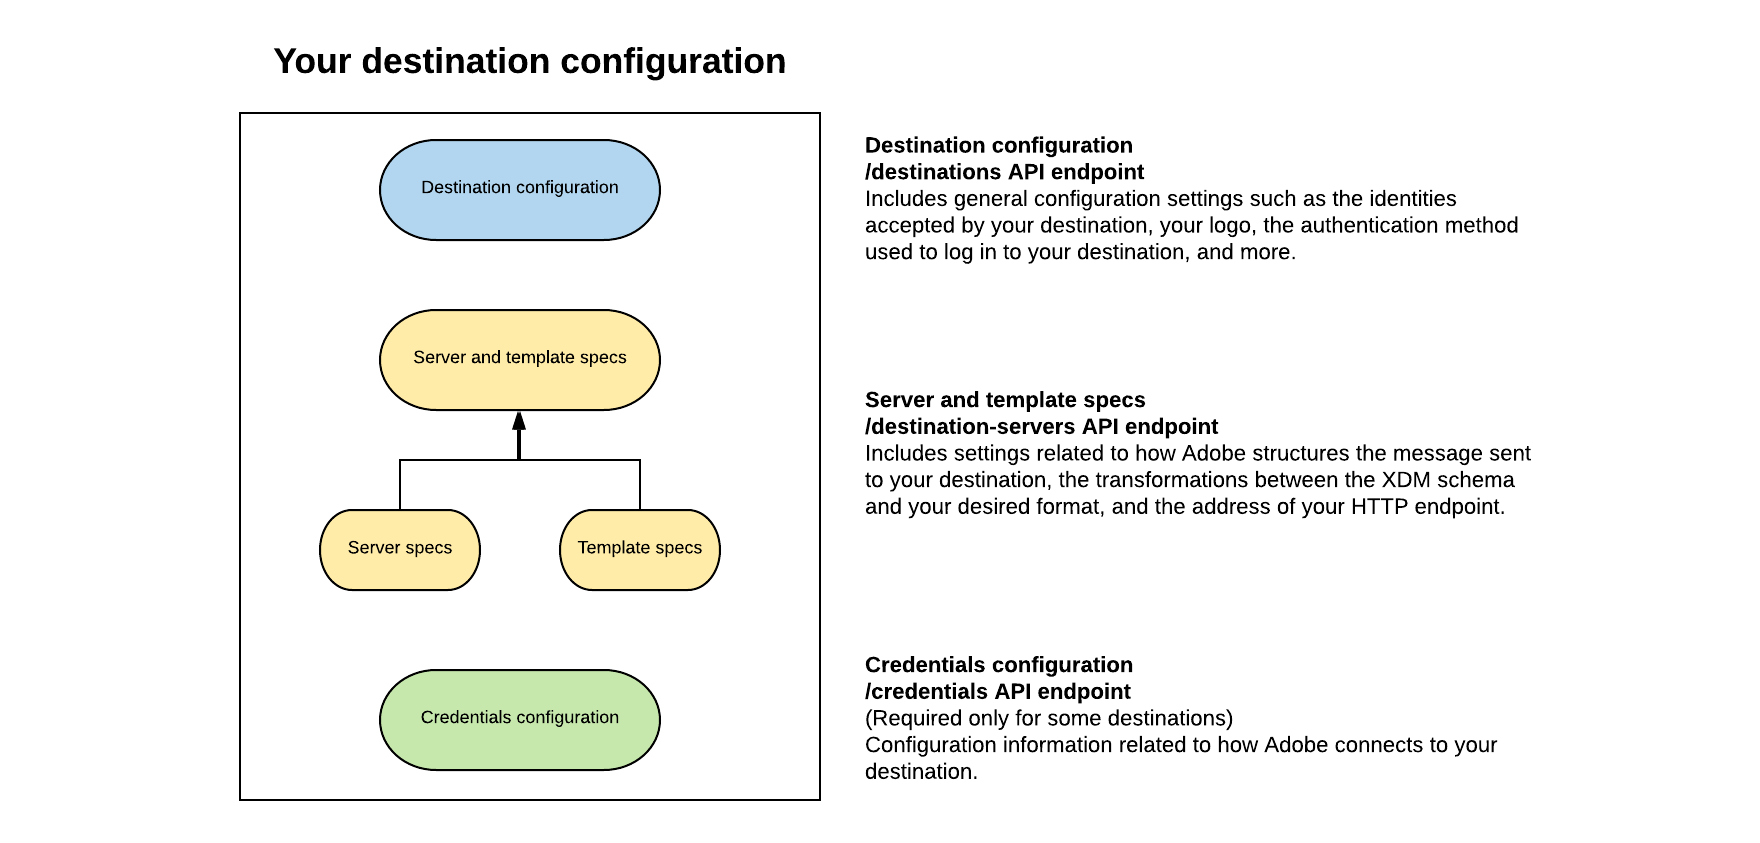
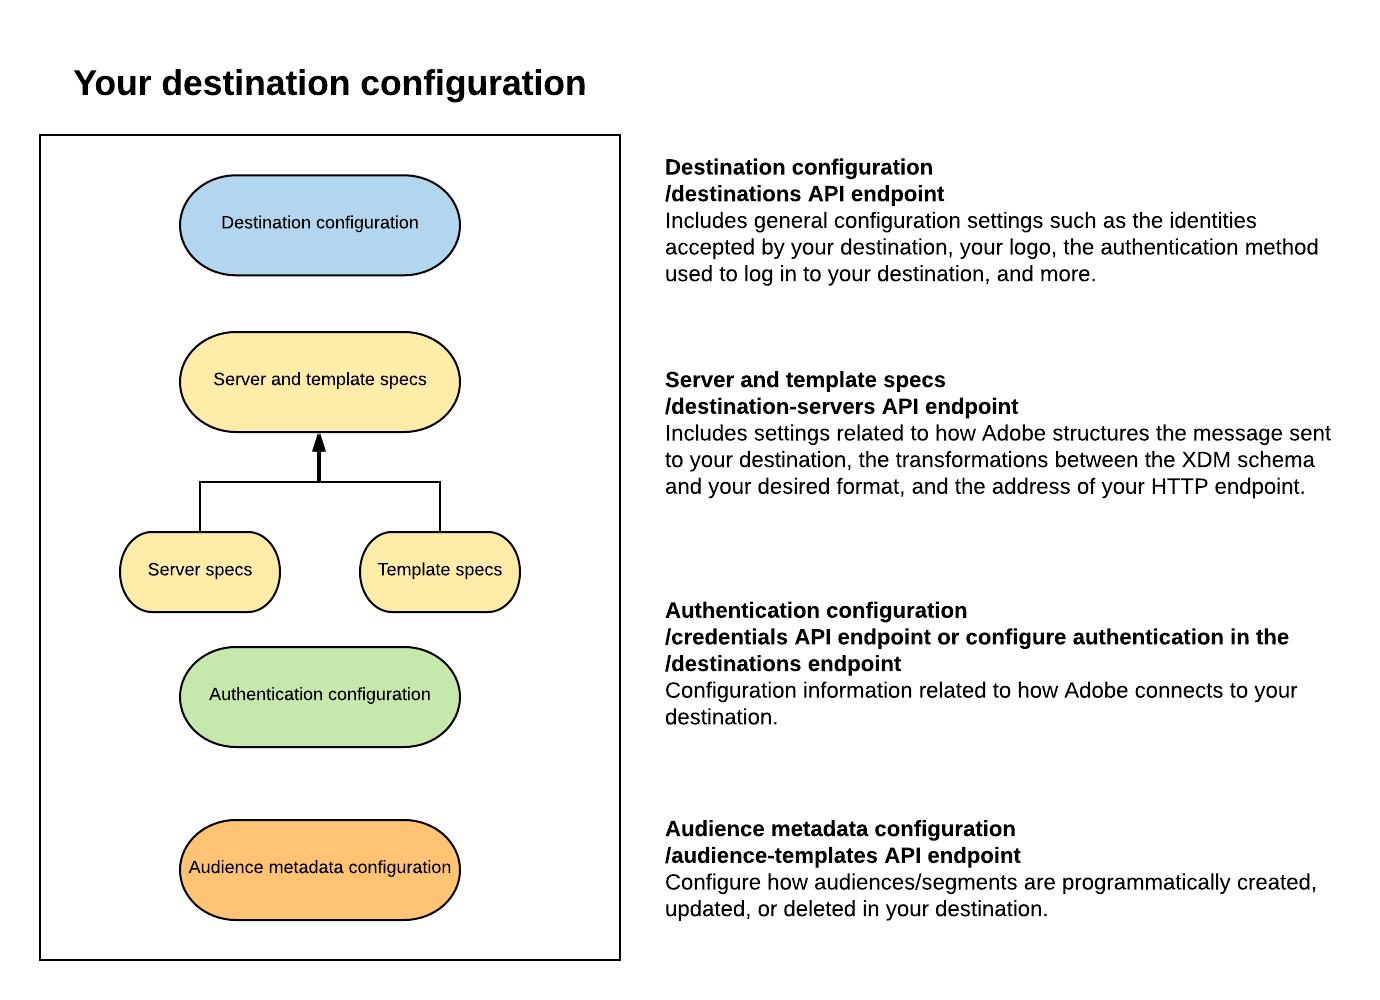
Several updates following review by @falon

diff --git a/help/audience-metadata-management.md b/help/audience-metadata-management.md
@@ -33,19 +33,19 @@ With audience metadata support in Destination SDK, when you configure your Exper
 
 ### Use case 1 - You have a 3rd party API and users don't need to input mapping IDs
 
-If you have an API endpoint to create/update/delete shell segments, you can use audience metadata templates to configure Destination SDK to match the specs of your segment create/update/delete endpoint. Experience Platform can programmatically create/update/delete segments and synchronize metadata back to Experience Platform.
+If you have an API endpoint to create/update/delete segments or audiences, you can use audience metadata templates to configure Destination SDK to match the specs of your segment create/update/delete endpoint. Experience Platform can programmatically create/update/delete segments and synchronize metadata back to Experience Platform.
 
-Experience Platform users don't need to manually fill in the segment mapping ID field in the activation workflow to your destination.
+When activating segments to your destination in the Experience Platform user interface (UI), users don't need to manually fill in the segment mapping ID field in the activation workflow.
 
 ### Use case 2 - Users need to create a segment in your destination first and are required to manually input mapping ID
 
-If "shell segments" and other metadata need to be created by partners or users manually, then users must manually fill in the segment mapping ID field in the activation workflow to sync the segment metadata between your destination and Experience Platform.
+If segments and other metadata need to be created by partners or users manually in your destination, then users must manually fill in the segment mapping ID field in the activation workflow to sync the segment metadata between your destination and Experience Platform.
 
 ![Input mapping ID](/help/assets/input-mapping-id.png)
 
-### Use case 3 - Your destination honors the Experience Platform segment ID, users don't need to manually input mapping ID  
+### Use case 3 - Your destination accepts the Experience Platform segment ID, users don't need to manually input mapping ID  
 
-If your destination system honors the Experience Platform segment ID space, you can configure this in your audience metadata template. Users do not have to populate a segment mapping ID when activating a segment.
+If your destination system accepts the Experience Platform segment ID, you can configure this in your audience metadata template. Users do not have to populate a segment mapping ID when activating a segment.
 
 ## Generic and extensible audience template {#generic-and-extensible}
 
@@ -55,7 +55,7 @@ Select the `Generic` option when you [create a new audience template](/help/audi
 
 * The HTTP methods: POST, GET, PUT, DELETE, PATCH
 * The authentication types: OAuth 1, OAuth 2 with refresh token, OAuth 2 with bearer token
-* The functions: create audience, update audience, get audience, delete audience, validate credentials 
+* The functions: create an audience, update an audience, get an audience, delete an audience, validate credentials 
 
 
 ## Template example
@@ -169,10 +169,10 @@ This section includes an example of a generic audience template, for your refere
 
 Template section | Description |
 ---------|----------|
-``audience`` | Includes all metadata from Experience Platform needed to create an audience in the destination platform. |
-``credential`` | Specifies the authorization type for your destination. |
-``metadataTemplate`` | Includes basic information for HTTP calls to your destination, to create, update, validate, and delete audiences. |
-``validations`` | Runs validations for any fields in the template configuration before making a call to the partner API. For example, you could validate that the user's account ID is input correctly. |
+`audience` | Includes all metadata from Experience Platform needed to create an audience in the destination platform. |
+`credential` | Specifies the authorization type for your destination. |
+`metadataTemplate` | Includes basic information for HTTP calls to your destination, to create, update, validate, and delete audiences. |
+`validations` | Runs validations for any fields in the template configuration before making a call to the partner API. For example, you could validate that the user's account ID is input correctly. |
 
 Descriptions of all parameters in the template are further below on this page.
 
@@ -712,7 +712,7 @@ A successful response returns HTTP status 200 with detailed information about th
 
 ## Delete a specific audience template {#delete}
 
-You can request to delete the specified audience template by making a DELETE request to the `/authoring/v1/audience-templates` endpoint and providing the ID of the audience template you wish to delete in the request path.
+You can delete the specified audience template by making a DELETE request to the `/authoring/v1/audience-templates` endpoint and providing the ID of the audience template you wish to delete in the request path.
 
 **API format**
 
@@ -745,4 +745,4 @@ Destination SDK API endpoints follow the general Experience Platform API error m
 
 ## Next steps
 
-After reading this guide, you now know when to use audience metadata templates and how to configure an audience metadata template using the `/authoring/v1/audience-templates` API endpoint. 
+After reading this guide, you now know when to use audience metadata templates and how to configure an audience metadata template using the `/authoring/v1/audience-templates` API endpoint. Read [how to use Destination SDK to configure your destination](/help/configure-destination-instructions.md) to understand where this step fits into the process of configuring your destination.

diff --git a/help/configuration-options.md b/help/configuration-options.md
@@ -23,13 +23,16 @@ The destinations service in Adobe Experience Platform uses configuration templat
 * **Server and template specs**: Ties together information about the server specs and the templating used by Adobe to deliver payloads to your destination
   * **Server specs**: a template that stores your endpoint details.
   * **Template specs**: in this template, you can define how to transform profile attribute fields between XDM schema and the format that your platform supports. For in-depth information about supported templating languages, message formats, and the information required by Adobe to set up the integration with your platform, see [Message format](/help/message-format.md). 
-* **Credentials**: This template defines how Adobe Experience Platform users connect to your destination.
+* **Authentication configuration**: These settings define how Adobe Experience Platform users connect to your destination.
+* **Audience metadata configuration**: This template allows you to configure how audiences/segments are programmatically created, updated, or deleted in your destination.
 
-![Self-service configuration](/help/assets/self-service-configuration.png)
+![Destination SDK templates and configurations](/help/assets/self-service-configuration.png)
 
 The pages below provide more detail about the configuration options available for the templates.
 
 * [Destination configuration](/help/destination-configuration.md)
 * [Server and template specs](/help/server-and-template-configuration.md)
 * [Credentials configuration](/help/credentials-configuration.md)
+* [Audience metadata configuration](/help/audience-metadata-management.md)
+* [OAuth 2 configuration](/help/oauth2-authentication.md)
 * [Message format](/help/message-format.md)
